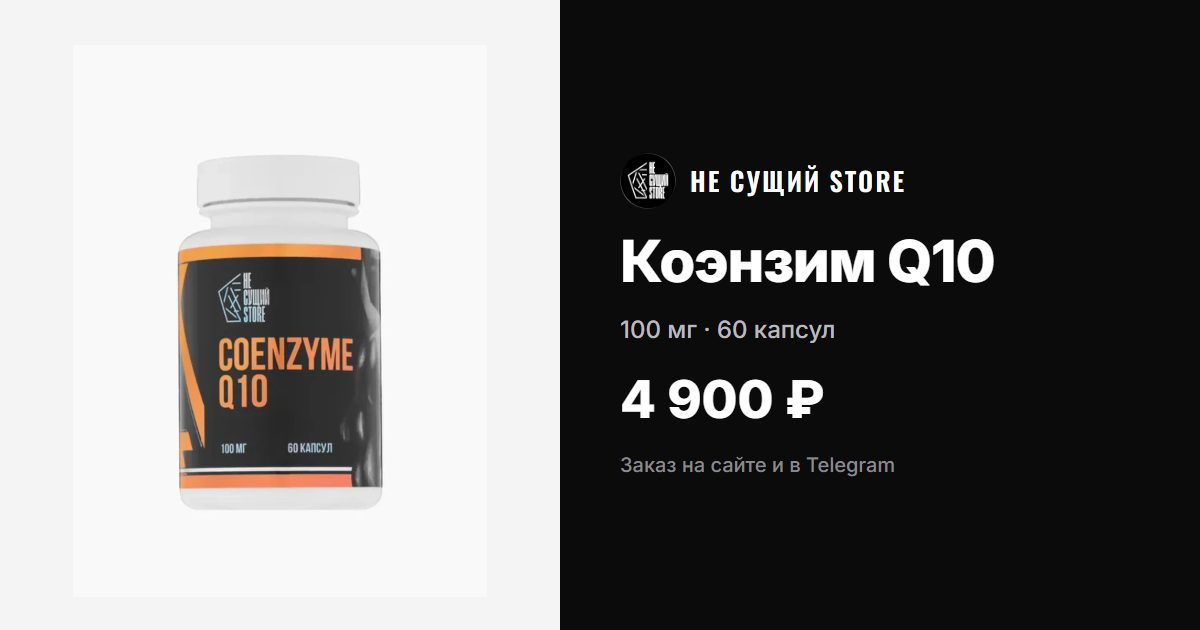
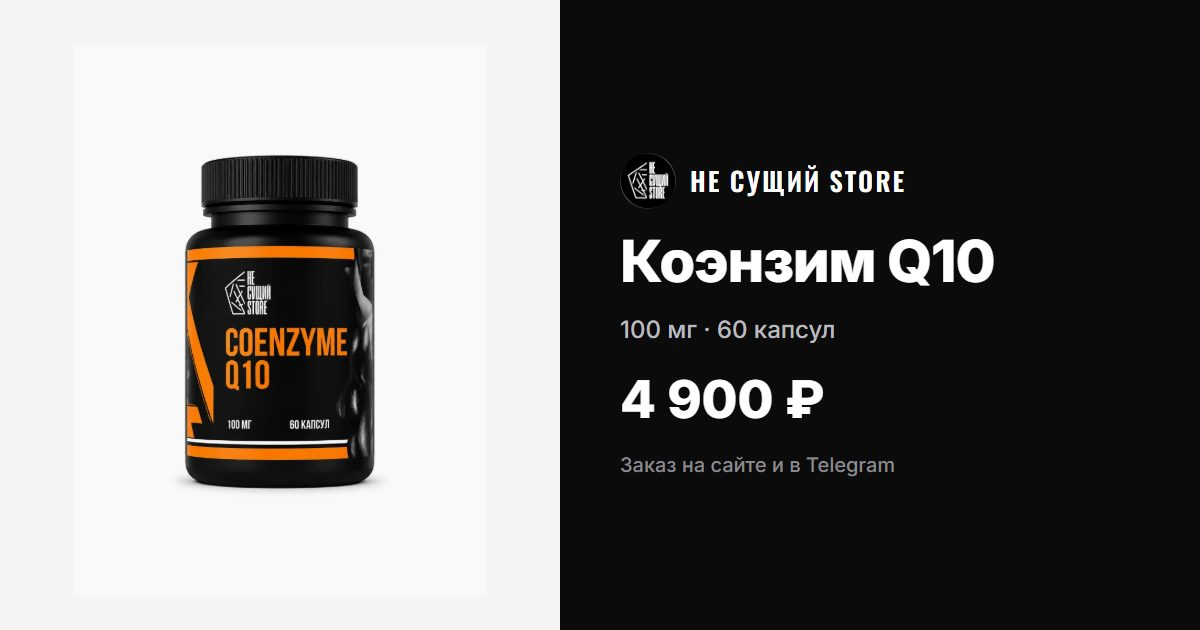
Сайт: 65eff52 Новые фото: чёрные банки Чеснока, Ниацинамида, Коэнзима Q10 и Витамина C

Changed region(s): [[0.1233, 0.2413, 0.3392, 0.8143]]

diff --git a/products.js b/products.js
@@ -621,10 +621,10 @@ const PRODUCTS = [
     "name": "Коэнзим Q10",
     "pack": "100 мг · 60 капсул",
     "price": 4900,
-    "img": "p/q10.webp?v=3ed2daed",
+    "img": "p/q10.webp?v=53b18085",
     "gallery": [
-      "p/q10.webp?v=3ed2daed",
-      "p/q10-1.webp?v=a4470e87"
+      "p/q10.webp?v=53b18085",
+      "p/q10-1.webp?v=b48b24fb"
     ],
     "tagline": "Для энергии и сердца",
     "desc": "Коэнзим Q10 – жирорастворимое вещество, присутствующее в каждой клетке организма. Оно играет ключевую роль в энергетическом обмене и обладает мощными антиоксидантными свойствами.",
@@ -697,10 +697,10 @@ const PRODUCTS = [
     "name": "Ниацинамид",
     "pack": "400 мг · 60 капсул",
     "price": 3900,
-    "img": "p/niacinamide.webp?v=52821c2d",
+    "img": "p/niacinamide.webp?v=817d35a4",
     "gallery": [
-      "p/niacinamide.webp?v=52821c2d",
-      "p/niacinamide-1.webp?v=c6395362"
+      "p/niacinamide.webp?v=817d35a4",
+      "p/niacinamide-1.webp?v=a2715d24"
     ],
     "tagline": "Для здоровья кожи и цнс",
     "desc": "Ниацинамид представляет собой производную витамина В3, которая является наиболее активной и легко усваиваемой формой этого витамина. Компонент способствует здоровью кожи, регулирует выработку кожного сала и устраняет следы постакне. Он также улучшает обмен веществ.",
@@ -733,9 +733,9 @@ const PRODUCTS = [
     "name": "Витамин C",
     "pack": "500 мг · 60 капсул",
     "price": 1900,
-    "img": "p/vitamin-c.webp?v=1f9f4ca5",
+    "img": "p/vitamin-c.webp?v=a21536b9",
     "gallery": [
-      "p/vitamin-c.webp?v=1f9f4ca5"
+      "p/vitamin-c.webp?v=a21536b9"
     ],
     "tagline": "",
     "desc": "Буферизованная форма витамина С, которая не грузит ЖКТ, вследствие чего вы можете принимать по-настоящему рабочие дозировки. Станет отличным помощником вашего здоровья и иммунитета.",
@@ -876,10 +876,10 @@ const PRODUCTS = [
     "name": "Чеснока Экстракт",
     "pack": "400 мг · 60 капсул",
     "price": 3900,
-    "img": "p/garlic.webp?v=0768534c",
+    "img": "p/garlic.webp?v=55a2213b",
     "gallery": [
-      "p/garlic.webp?v=0768534c",
-      "p/garlic-1.webp?v=7b1f0907"
+      "p/garlic.webp?v=55a2213b",
+      "p/garlic-1.webp?v=9768972b"
     ],
     "tagline": "Для жкт и аппетита",
     "desc": "Экстракт чеснока — это уникальная природная добавка, без запаха. В каждой капсуле содержится концентрированная выжимка активных веществ чеснока, способствующих укреплению здоровья и повышению иммунитета.",

diff --git a/index.html b/index.html
@@ -26,12 +26,12 @@
   <!-- шрифты не блокируют первую отрисовку -->
   <link rel="preload" as="style" href="https://fonts.googleapis.com/css2?family=Inter:wght@400;500;600;700;800&family=Oswald:wght@500;600&display=swap" onload="this.onload=null;this.rel='stylesheet'">
   <noscript><link rel="stylesheet" href="https://fonts.googleapis.com/css2?family=Inter:wght@400;500;600;700;800&family=Oswald:wght@500;600&display=swap"></noscript>
-  <link rel="stylesheet" href="styles.css?v=a90bc6a">
-  <link rel="stylesheet" href="mega.css?v=a90bc6a">
-  <link rel="stylesheet" href="home.css?v=a90bc6a">
-  <link rel="stylesheet" href="reviews.css?v=a90bc6a">
-  <link rel="stylesheet" href="account.css?v=a90bc6a">
-  <link rel="stylesheet" href="mobile.css?v=a90bc6a">
+  <link rel="stylesheet" href="styles.css?v=65eff52">
+  <link rel="stylesheet" href="mega.css?v=65eff52">
+  <link rel="stylesheet" href="home.css?v=65eff52">
+  <link rel="stylesheet" href="reviews.css?v=65eff52">
+  <link rel="stylesheet" href="account.css?v=65eff52">
+  <link rel="stylesheet" href="mobile.css?v=65eff52">
 </head>
 <body>
   <!-- Иконки -->
@@ -414,12 +414,12 @@
 
   <div class="toast" id="toast" role="status"></div>
 
-  <script defer src="config.js?v=a90bc6a"></script>
-  <script defer src="vendor/supabase.js?v=a90bc6a"></script>
-  <script defer src="api.js?v=a90bc6a"></script>
-  <script defer src="products.js?v=a90bc6a"></script>
-  <script defer src="reviews.js?v=a90bc6a"></script>
-  <script defer src="app.js?v=a90bc6a"></script>
-  <script defer src="account.js?v=a90bc6a"></script>
+  <script defer src="config.js?v=65eff52"></script>
+  <script defer src="vendor/supabase.js?v=65eff52"></script>
+  <script defer src="api.js?v=65eff52"></script>
+  <script defer src="products.js?v=65eff52"></script>
+  <script defer src="reviews.js?v=65eff52"></script>
+  <script defer src="app.js?v=65eff52"></script>
+  <script defer src="account.js?v=65eff52"></script>
 </body>
 </html>

diff --git a/app.js b/app.js
@@ -37,7 +37,7 @@
     const avg = avgRating(list);
     return (avg ? `<b>★ ${fmtAvg(avg)}</b>` : "") + `<span>${list.length} ${plural(list.length, ["отзыв", "отзыва", "отзывов"])}</span>`;
   }
-  const CAT_IMG = { samples: "p/samples.webp?v=06b47a1f", sex: "p/maca.webp?v=623b2771", vit: "p/omega3.webp?v=f5de07de", life: "p/garlic.webp?v=0768534c", brain: "p/hericium.webp?v=05e00ac9", sport: "p/creatine.webp?v=c9769674", calm: "p/ashwagandha.webp?v=9e8bc937", tea: "p/da-hong-pao.webp?v=534673e0", perfume: "p/capital.webp?v=a55fb92e" };
+  const CAT_IMG = { samples: "p/samples.webp?v=06b47a1f", sex: "p/maca.webp?v=623b2771", vit: "p/omega3.webp?v=f5de07de", life: "p/garlic.webp?v=55a2213b", brain: "p/hericium.webp?v=05e00ac9", sport: "p/creatine.webp?v=c9769674", calm: "p/ashwagandha.webp?v=9e8bc937", tea: "p/da-hong-pao.webp?v=534673e0", perfume: "p/capital.webp?v=a55fb92e" };
 
   // ---------- Хранилище (корзина, избранное) ----------
   const load = (k, d) => { try { return JSON.parse(localStorage.getItem(k)) || d; } catch { return d; } };
